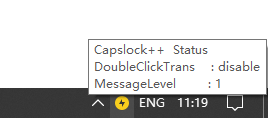
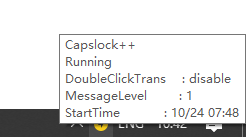
readme

Changed region(s): [[0.0, 0.2288, 1.0, 1.0], [0.7398, 0.661, 0.8252, 0.7627], [0.7114, 0.6864, 0.7398, 0.7373]]

diff --git a/README.md b/README.md
@@ -12,12 +12,15 @@ Original core concept is to make your `Capslock` key as a new `fn`. You have to 
 
 __New Features__
 
-- Intelligent Search! 
-- HyperTab enhancement! (merge autosuggest function into HyperTab)
+- Screen Split ! (just like `win + left/right` in Win10, but support split horizontally)
 
 __Notice__
 
 This project is updating very quickly. If you pulled the latest version, **remember** to delete the old `ini` files in order to load new ones to gain new features.
+
+However, I made a menu for you to do this quickly.
+
+![tray_reset](img/reset.png)
 
 # Feature
 
@@ -65,6 +68,10 @@ In the following part, I will ignore `capslock` in keyset.
 | t | google translate |
 | alt+r | reload script or settings |
 | alt+t | enable double click translate |
+| alt+w | move the window to the top |
+| alt+s | move the window to the bottom |
+| alt+a | move the window to the left |
+| alt+d | move the window to the right |
 
 By the way, you may want to `suspend` | `restart` the script when you play games. Press `Alt + Esc` will help. And its icon will change.
 
@@ -198,7 +205,7 @@ Take a look at default HyperSetting.ini, you will find this
 [Tab]
 sample=this is a Tab sample
 date1=<GetDateTime>
-date2=<GetDateTime("yyyy-M-d")>
+date2=<GetDateTime(yyyy-M-d)>
 ```
 
 Move your cursor after the word `sample`, press `CapsLock + Tab`, and it will be auto replaced by `this is a TabHotString sample`
@@ -261,6 +268,10 @@ About `MsgLevel`, set `0` to show all notifications including `DEBUG`. However, 
 About `Style`, I have implemented three styles for you. `slide` means the notification will slide in ane slide out. `fade` means fade in and fade out. `none` means no any effect.
 
 About `Max`, `5` is enough for you to use. It is useful when you need to use `DEBUG` mode.
+
+There is a simple tray menu for you to quickly change `MsgLevel`.
+
+![tray_notify](img/tray_notify.png)
 
 ## HyperSearch
 
